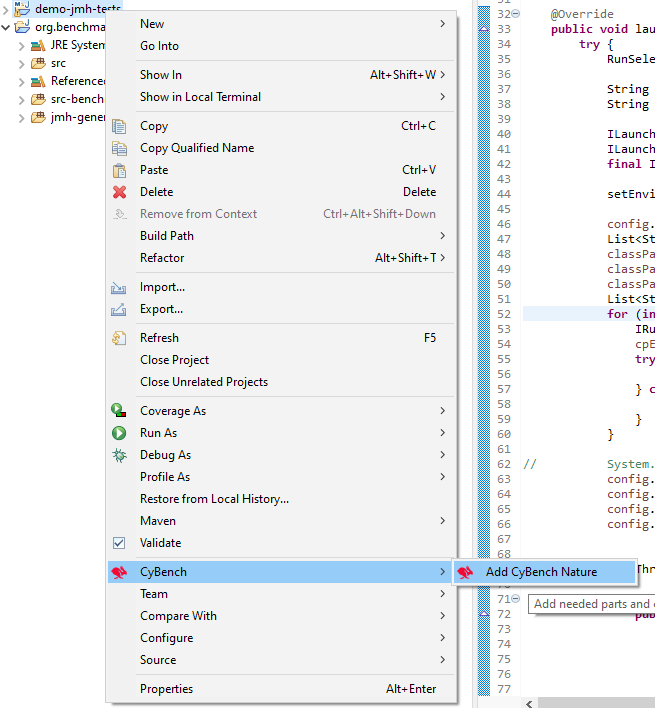
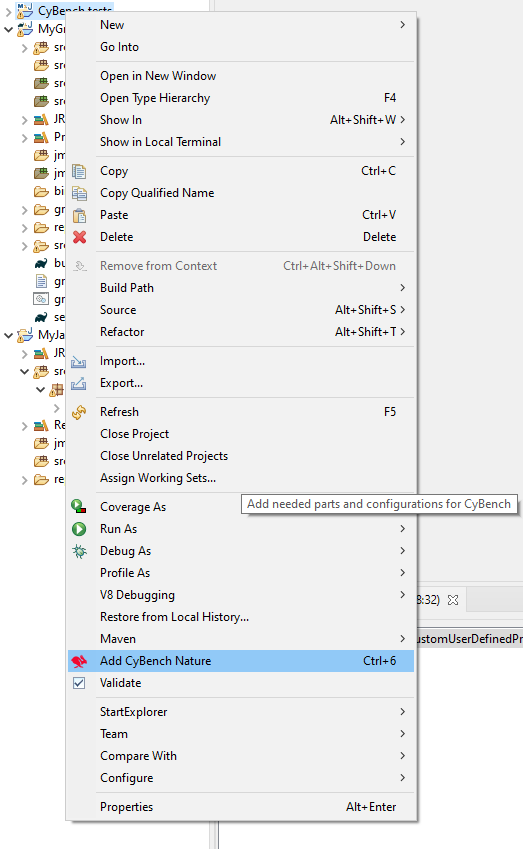
Updating the readme instructions. Fixing the Eclipse plugin for quick launch to work form project click as well as ,java file click.

diff --git a/README.md b/README.md
@@ -2,7 +2,7 @@
 
 ## Installation instructions
 
-**Deployment packages**
+**Deployment packages from [release page](https://github.com/K2NIO/gocypher-cybench-eclipse/releases)**
 
 * File `CybenchTools.zip` contains Eclipse update site for Eclipse 2020-09.
 * File `CyBenchToolsForEclipseMars.zip` contains Eclipse update site for Eclipse Mars 2.
@@ -37,7 +37,7 @@ Installation process for both version of plugins is the same:
 * Check “CyBench” entry in the features table.
 * Click button “Next”.
 * Installation details window appears. Click button “Next”.
-* Licenses review window appears, select “I accept the terms of the license agreement”, click button “Finish”.
+* Licenses review window appears, review and select “I accept the terms of the license agreement”, click button “Finish”.
 * Warning box appears, click button “Install anyway”.
 
 ![](./docs/images/image3.png)
@@ -78,7 +78,7 @@ CyBench project nature applies settings to the project that benchmarks are compi
 **Steps:**
 
 * Right click mouse button on the project.
-* Select “CyBench” → “Add CyBench Nature”.
+* Select “Add CyBench Nature”.
 * CyBench nature shall be added.
 
 ![](./docs/images/image8.png)
@@ -90,6 +90,7 @@ Adding CyBench nature will make the following changes to the project settings:
 
 * Will add external dependencies to JMH framework
     * If project is JAVA project then will set build path to point to CyBench plugin as external library link.
+    * If project is Gradle project then will add dependencies to JMH into build.gradle file.
     * If project is Maven project then will add dependencies to JMH into POM file.
 * Will update compiler settings in order to use annotation processing during file compilation:
     * Enables annotation processing and sets extra source folders for processed files.
@@ -128,7 +129,9 @@ View displays selected or generated during launch report details.
 
 ## Generate Benchmarks
 
-Feature generates benchmark class stubs, adds necessary annotations and methods for a selected JAVA file. Benchmark method is generated for each public method found in the class.
+Feature generates benchmark class stubs, adds necessary annotations and methods for a selected JAVA file.
+
+![](./docs/images/image15.png)
 
 **Pre-conditions**
 
@@ -139,14 +142,18 @@ Feature generates benchmark class stubs, adds necessary annotations and methods 
 **Steps:**
 
 * Select any JAVA class file in the project explorer which meets pre-conditions.
-* Right click mouse button on it.
-* Select CyBench→CyBench Generate.
+* Right click mouse button on it and Select `CyBench Generate` or click CTRL+7.
 
 ![](./docs/images/image15.png)
 
+* A popup will be displayed that shows all the available public methods inside the class. Check the checkboxes on the right side to select the methods for which to generate the benchmark methods.
+**Notice**: If the file have been already generated previously and still exists its contents will not be overwritten. 
+
+![](./docs/images/image19.png)
+
 * New JAVA classes with benchmark test stubs shall be generated under new src folder:
     * for JAVA projects - `src-benchmarks`,
-    * for Maven projects – `src/test/java` (default folder for tests).
+    * for Maven and Gradle projects – `src/test/java` (default folder for tests).
 * Newly generated classes shall be immediately pre-processed using JMH annotation processors and places under folders defined in a project annotation processing settings.
 
 ![](./docs/images/image16.png)
@@ -186,7 +193,7 @@ Launch configuration view which allows to create a custom launch settings for a 
         * “Reports Folder” - folder where CyBench reports are stored, default is the location of the “Run Project” option plus “/reports” subdirectory.
         * “Send Report To CyBench” - flag which defines that either report should be sent to CyBench repository or not.
 
-![](./docs/images/image17.png)
+![](./docs/images/image18.png)
 
 * Click “Apply” → “Run” to start execution of the selected project benchmarks  .      
 * CyBench launcher will start display messages in the console view.
